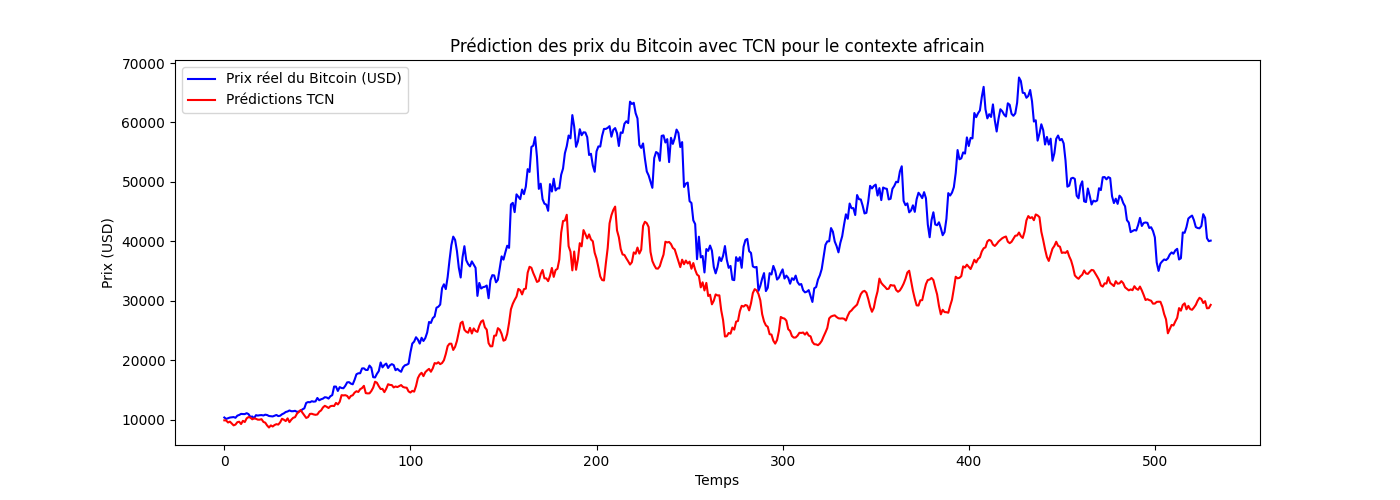
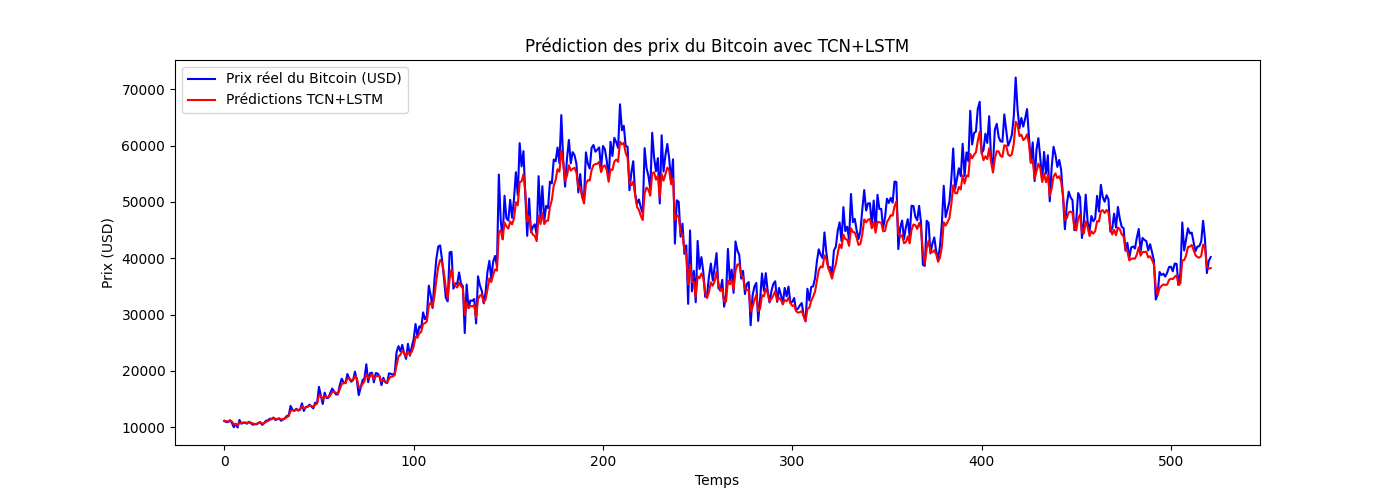
Implement TCN+LSTM model for Bitcoin price prediction: enhance data preprocessing with log returns and technical indicators, adjust input features, and update model architecture and evaluation metrics.

diff --git a/CNN/btc.py b/CNN/btc.py
@@ -3,50 +3,55 @@ import numpy as np
 from sklearn.preprocessing import MinMaxScaler
 from sklearn.metrics import mean_squared_error, mean_absolute_error, r2_score
 from tensorflow.keras.models import Sequential
-from tensorflow.keras.layers import Conv1D, MaxPooling1D, Flatten, Dense
+from tensorflow.keras.layers import Conv1D, MaxPooling1D, LSTM, Dense, Flatten
 from tensorflow.keras.optimizers import Adam
 import matplotlib.pyplot as plt
+from ta.momentum import RSIIndicator
 
 # 1. Charger les données
-# Remplacez 'BTC-USD.csv' par le nom de votre fichier CSV
 try:
     df = pd.read_csv('BTC-USD.csv')
 except FileNotFoundError:
-    print("Fichier 'BTC-USD.csv' introuvable. Veuillez fournir le fichier ou utiliser des données synthétiques.")
+    print("Fichier 'BTC-USD.csv' introuvable. Veuillez fournir le fichier.")
     exit(1)
 
 # 2. Préparer les données
-# Convertir la colonne 'Date' en format datetime
 df['Date'] = pd.to_datetime(df['Date'])
 df = df.sort_values('Date')
 df.set_index('Date', inplace=True)
 
-# Supprimer les valeurs manquantes
-df = df.dropna(subset=['Close', 'Volume'])
+# Calculer les rendements logarithmiques pour réduire la volatilité
+df['Log_Return'] = np.log(df['Close'] / df['Close'].shift(1))
 
-# Sélectionner les variables (multivarié : Close et Volume)
-data = df[['Close', 'Volume']].values
+# Ajouter des indicateurs techniques
+df['RSI'] = RSIIndicator(df['Close']).rsi()
+df['MA7'] = df['Close'].rolling(window=7).mean()
+
+# Supprimer les valeurs manquantes
+df = df.dropna()
+
+# Sélectionner les features (Log_Return, Volume, RSI, MA7)
+data = df[['Log_Return', 'Volume', 'RSI', 'MA7']].values
 
 # 3. Normaliser les données
 scaler = MinMaxScaler(feature_range=(0, 1))
 scaled_data = scaler.fit_transform(data)
 
-# 4. Créer des séquences pour l'entraînement
+# 4. Créer des séquences
 def create_sequences(data, seq_length):
     X, y = [], []
     for i in range(len(data) - seq_length):
         X.append(data[i:i + seq_length])
-        y.append(data[i + seq_length, 0])  # Prédire uniquement 'Close'
+        y.append(data[i + seq_length, 0])  # Prédire Log_Return
     return np.array(X), np.array(y)
 
 # Hyperparamètres optimisés
-sequence_length = 60  # 60 jours pour capturer des tendances à long terme
+sequence_length = 90  # 90 jours pour capturer des tendances long terme
 train_test_split = 0.8
-filters = 128  # Plus de filtres pour une meilleure capacité
-kernel_size = 3  # Noyau plus petit pour des motifs fins
-pool_size = 2
-num_epochs = 100  # Plus d'époques pour un meilleur entraînement
-batch_size = 16  # Batch plus grand pour une convergence stable
+filters = 128
+kernel_size = 3
+num_epochs = 150
+batch_size = 16
 
 X, y = create_sequences(scaled_data, sequence_length)
 
@@ -55,21 +60,21 @@ train_size = int(len(X) * train_test_split)
 X_train, X_test = X[:train_size], X[train_size:]
 y_train, y_test = y[:train_size], y[train_size:]
 
-# Reshape pour TCN (multivarié : 2 features)
-X_train = X_train.reshape(-1, sequence_length, 2)
-X_test = X_test.reshape(-1, sequence_length, 2)
+# Reshape pour le modèle (4 features)
+X_train = X_train.reshape(-1, sequence_length, 4)
+X_test = X_test.reshape(-1, sequence_length, 4)
 
-# 6. Créer le modèle TCN
+# 6. Créer le modèle TCN + LSTM
 model = Sequential()
-model.add(Conv1D(filters=filters, kernel_size=kernel_size, activation='relu', input_shape=(sequence_length, 2)))
-model.add(MaxPooling1D(pool_size=pool_size))
+model.add(Conv1D(filters=filters, kernel_size=kernel_size, activation='relu', input_shape=(sequence_length, 4)))
+model.add(MaxPooling1D(pool_size=2))
 model.add(Conv1D(filters=filters // 2, kernel_size=kernel_size, activation='relu'))
-model.add(MaxPooling1D(pool_size=pool_size))
-model.add(Flatten())
+model.add(MaxPooling1D(pool_size=2))
+model.add(LSTM(50, return_sequences=False))
 model.add(Dense(units=100, activation='relu'))
 model.add(Dense(units=1))
 
-# Compiler le modèle avec un taux d'apprentissage réduit
+# Compiler avec un taux d'apprentissage réduit
 model.compile(loss='mean_squared_error', optimizer=Adam(learning_rate=0.0001))
 
 # 7. Entraîner le modèle
@@ -78,20 +83,25 @@ history = model.fit(X_train, y_train, epochs=num_epochs, batch_size=batch_size, 
 # 8. Faire des prédictions
 predictions = model.predict(X_test)
 
-# Inverser la normalisation pour les prédictions et les valeurs réelles
-# Créer un tableau temporaire pour l'inversion (seulement pour 'Close')
-predictions_full = np.zeros((predictions.shape[0], 2))
+# Inverser la normalisation
+predictions_full = np.zeros((predictions.shape[0], 4))
 predictions_full[:, 0] = predictions[:, 0]
-y_test_full = np.zeros((y_test.shape[0], 2))
+y_test_full = np.zeros((y_test.shape[0], 4))
 y_test_full[:, 0] = y_test
 
 predictions = scaler.inverse_transform(predictions_full)[:, 0]
 y_test_scaled = scaler.inverse_transform(y_test_full)[:, 0]
 
+# Convertir les rendements logarithmiques en prix pour évaluation
+# (Approximation : utiliser les prix réels pour contextualiser)
+last_prices = df['Close'].values[-len(y_test_scaled):]
+predicted_prices = last_prices * np.exp(predictions)
+actual_prices = last_prices * np.exp(y_test_scaled)
+
 # 9. Calculer les métriques
-rmse = np.sqrt(mean_squared_error(y_test_scaled, predictions))
-mae = mean_absolute_error(y_test_scaled, predictions)
-r2 = r2_score(y_test_scaled, predictions)
+rmse = np.sqrt(mean_squared_error(actual_prices, predicted_prices))
+mae = mean_absolute_error(actual_prices, predicted_prices)
+r2 = r2_score(actual_prices, predicted_prices)
 
 print(f'RMSE: {rmse:.2f} USD')
 print(f'MAE: {mae:.2f} USD')
@@ -99,20 +109,20 @@ print(f'R²: {r2:.2f}')
 
 # 10. Visualiser les résultats
 plt.figure(figsize=(14, 5))
-plt.plot(y_test_scaled, color='blue', label='Prix réel du Bitcoin (USD)')
-plt.plot(predictions, color='red', label='Prédictions TCN')
-plt.title('Prédiction des prix du Bitcoin avec TCN pour le contexte africain')
+plt.plot(actual_prices, color='blue', label='Prix réel du Bitcoin (USD)')
+plt.plot(predicted_prices, color='red', label='Prédictions TCN+LSTM')
+plt.title('Prédiction des prix du Bitcoin avec TCN+LSTM')
 plt.xlabel('Temps')
 plt.ylabel('Prix (USD)')
 plt.legend()
-plt.savefig('btc_predictions.png')  # Sauvegarder pour LinkedIn
+plt.savefig('btc_predictions.png')
 plt.show()
 
 # 11. Visualiser la perte
 plt.figure(figsize=(14, 5))
 plt.plot(history.history['loss'], label='Perte (entraînement)')
 plt.plot(history.history['val_loss'], label='Perte (validation)')
-plt.title('Perte du modèle TCN')
+plt.title('Perte du modèle TCN+LSTM')
 plt.xlabel('Époque')
 plt.ylabel('Perte (MSE)')
 plt.legend()
